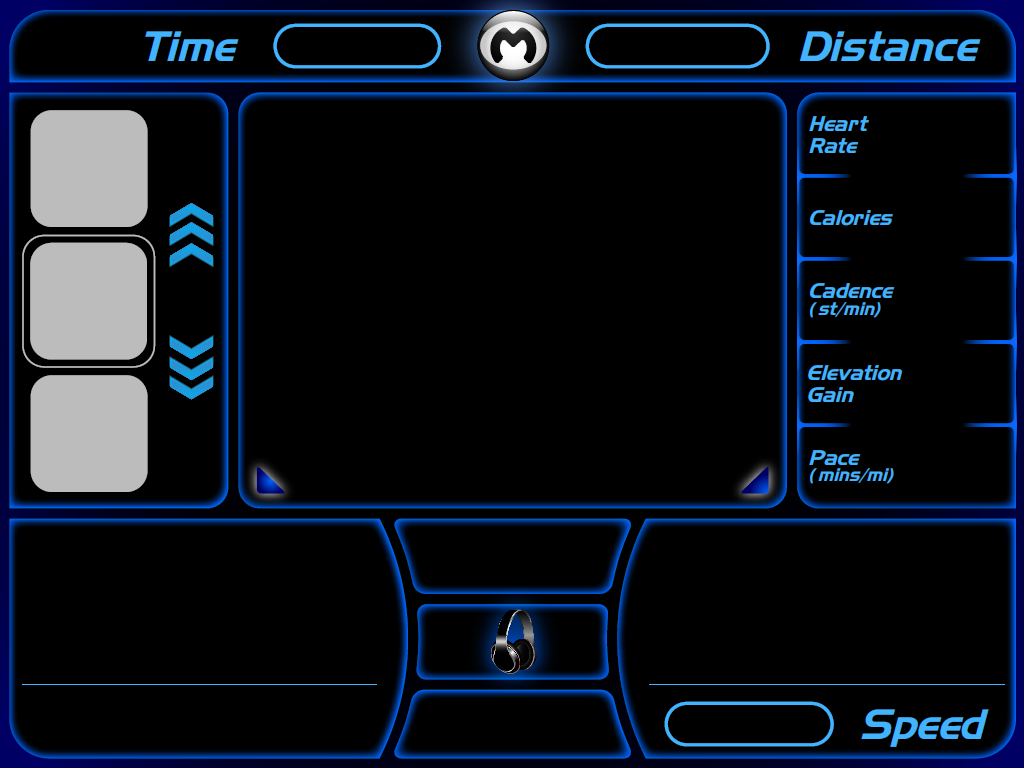
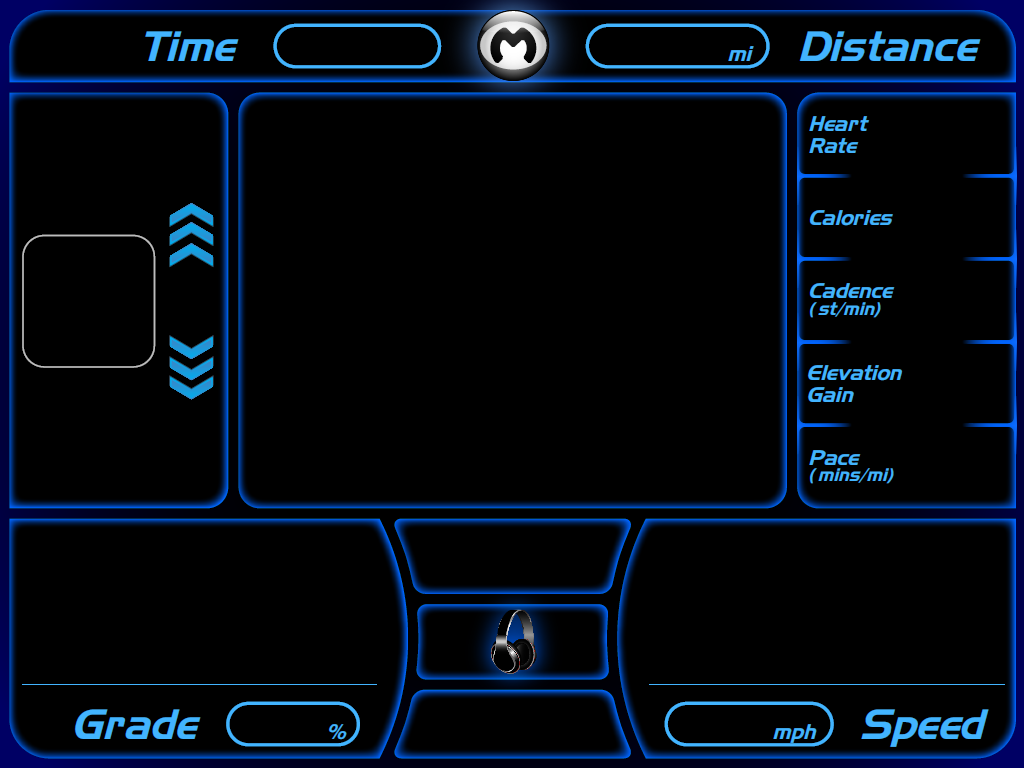
Completed the graphs on the Main Screen

diff --git a/TreadmillUI/trunk/mainscreen.cpp b/TreadmillUI/trunk/mainscreen.cpp
@@ -5,12 +5,21 @@
 #include <phonon/VideoWidget>
 #include <QBitmap>
 
+void zero(int array[], int length){
+
+    for(int i=0;i<length;i++){
+        array[i] = 31;
+    }
+}
+
 MainScreen::MainScreen(QWidget *parent, QString action) :
     QWidget(parent)
     ,ui(new Ui::MainScreen)
     ,secondTimer(new QTimer)
     ,elapsedTime(0)
     ,player(new Phonon::VideoPlayer(Phonon::VideoCategory, this))
+    ,speedHistoryWidget(this, speedHistory, HISTORY_LENGTH, 31)
+    ,gradeHistoryWidget(this, gradeHistory, HISTORY_LENGTH, 31)
 {
     ui->setupUi(this);
 
@@ -30,17 +39,25 @@ MainScreen::MainScreen(QWidget *parent, QString action) :
         player->show();
     }
 
-    connect(secondTimer, SIGNAL(timeout()), this, SLOT( secondElapsed()));
+    connect(secondTimer, SIGNAL(timeout()), this, SLOT( updateDisplay()));
     secondTimer->setSingleShot(false);
     secondTimer->setInterval(1000);
     secondTimer->start();
 
     //update the fields before the windows is initially displayed
-    secondElapsed();
+    updateDisplay();
 
     //Put the background behind the player
     QWidget *backgroundLabel = qFindChild<QWidget*>(this, "backgroundLabel");
     backgroundLabel->lower();
+
+    // add the history widgets
+    zero(speedHistory, HISTORY_LENGTH);
+    zero(gradeHistory, HISTORY_LENGTH);
+    gradeHistoryWidget.move(36,528);
+    speedHistoryWidget.move(665,528);
+
+
 }
 
 MainScreen::~MainScreen()
@@ -49,7 +66,7 @@ MainScreen::~MainScreen()
     deleteLater();
 }
 
-void MainScreen::secondElapsed(){
+void MainScreen::updateDisplay(){
     QString elapsedTimeString;
     int minutes = elapsedTime/60;
     int seconds = elapsedTime%60;
@@ -93,6 +110,17 @@ void MainScreen::secondElapsed(){
     ui->timeLabel->setText(time.left(splitLocation));
     ui->ampmLabel->setText(time.right(2) );
     ui->dateLabel->setText(currentTime.toString(QString("dddd, M/d/yy")));
+
+    for(int i=0;i<HISTORY_LENGTH-1;i++){
+        speedHistory[i] = speedHistory[i+1];
+        gradeHistory[i] = gradeHistory[i+1];
+    }
+
+    speedHistory[HISTORY_LENGTH-1] = elapsedTime%31;
+    gradeHistory[HISTORY_LENGTH-1] = elapsedTime%31;
+
+    speedHistoryWidget.update();
+    gradeHistoryWidget.update();
 
     elapsedTime++;
 }

diff --git a/TreadmillUI/trunk/historywidget.cpp b/TreadmillUI/trunk/historywidget.cpp
@@ -1,0 +1,46 @@
+#include "historywidget.h"
+#include <QPainter>
+#include <QDebug>
+
+static int VERTICAL_PADDING = 1;
+static int HORIZONTAL_PADDING = 3;
+static int SQUARE_WIDTH = 8;
+static int SQUARE_HEIGHT = 4;
+
+HistoryWidget::HistoryWidget(QWidget *parent, int history[], int historyWidth, int historyHeight) :
+    QWidget(parent)
+{
+    this->history = history;
+    this->length = historyWidth;
+
+    int width = (SQUARE_WIDTH+HORIZONTAL_PADDING)*historyWidth;
+    int height = (SQUARE_HEIGHT+VERTICAL_PADDING)*historyHeight;
+
+    setFixedSize(width, height);
+}
+
+void HistoryWidget::paintEvent(QPaintEvent *){
+    QPainter qpainter (this);
+
+    for(int i=0;i<length;i++){
+        int x = i*(SQUARE_WIDTH+HORIZONTAL_PADDING);
+        int y = height() - SQUARE_HEIGHT;
+
+        if(y<=0){
+            qDebug() << "y is bad!";
+        }
+
+        QColor color(255,255,255, 50);
+        int squares = history[i];
+
+        while(squares > 0){
+
+            qpainter.fillRect(x,y, SQUARE_WIDTH, SQUARE_HEIGHT, color);
+
+            y -= SQUARE_HEIGHT+VERTICAL_PADDING;
+            color.setAlpha(color.alpha()+6);
+
+            squares--;
+        }
+    }
+}

diff --git a/TreadmillUI/trunk/mainscreen.h b/TreadmillUI/trunk/mainscreen.h
@@ -4,6 +4,9 @@
 #include <QWidget>
 #include <QTimer>
 #include <phonon/VideoPlayer>
+#include "historywidget.h"
+
+const int HISTORY_LENGTH = 30;
 
 namespace Ui {
     class MainScreen;
@@ -22,9 +25,13 @@ private:
     int elapsedTime;
     QTimer *secondTimer;
     Phonon::VideoPlayer *player;
+    int speedHistory[HISTORY_LENGTH];
+    int gradeHistory[HISTORY_LENGTH];
+    HistoryWidget speedHistoryWidget;
+    HistoryWidget gradeHistoryWidget;
 
 private slots:
-    void secondElapsed();
+    void updateDisplay();
 };
 
 #endif // MAINSCREEN_H

diff --git a/TreadmillUI/trunk/historywidget.h b/TreadmillUI/trunk/historywidget.h
@@ -1,0 +1,23 @@
+#ifndef HISTORYWIDGET_H
+#define HISTORYWIDGET_H
+
+#include <QWidget>
+
+class HistoryWidget : public QWidget
+{
+    Q_OBJECT
+public:
+    explicit HistoryWidget(QWidget *parent, int history[], int historyWidth, int historyHeight);
+
+private:
+    int *history;
+    int length;
+    void paintEvent(QPaintEvent *);
+
+signals:
+
+public slots:
+
+};
+
+#endif // HISTORYWIDGET_H

diff --git a/TreadmillUI/trunk/startupwindow.cpp b/TreadmillUI/trunk/startupwindow.cpp
@@ -42,7 +42,7 @@ StartupWindow::StartupWindow(QWidget *parent) :
     QWidget *backgroundLabel = qFindChild<QWidget*>(this, "backgroundLabel");
     backgroundLabel->lower();
 
-//    showMainScreen("Video");
+    showMainScreen("Video");
 }
 
 void StartupWindow::restartVideo(){
